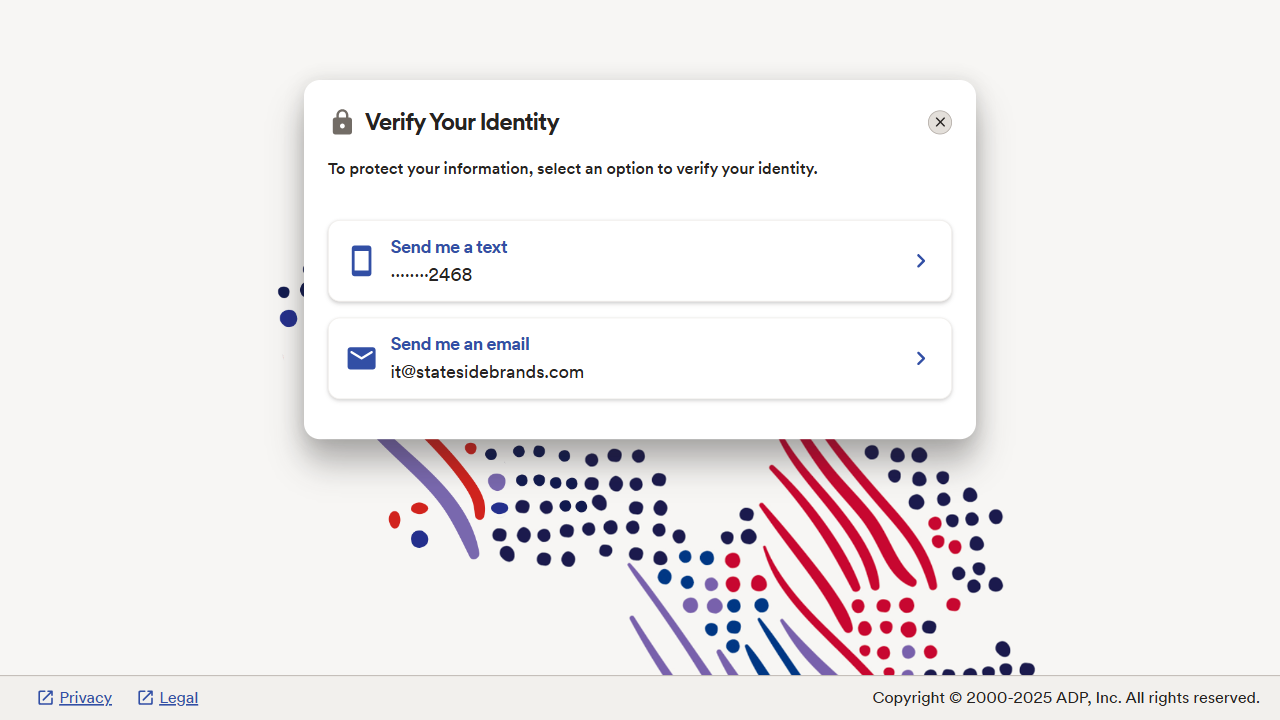
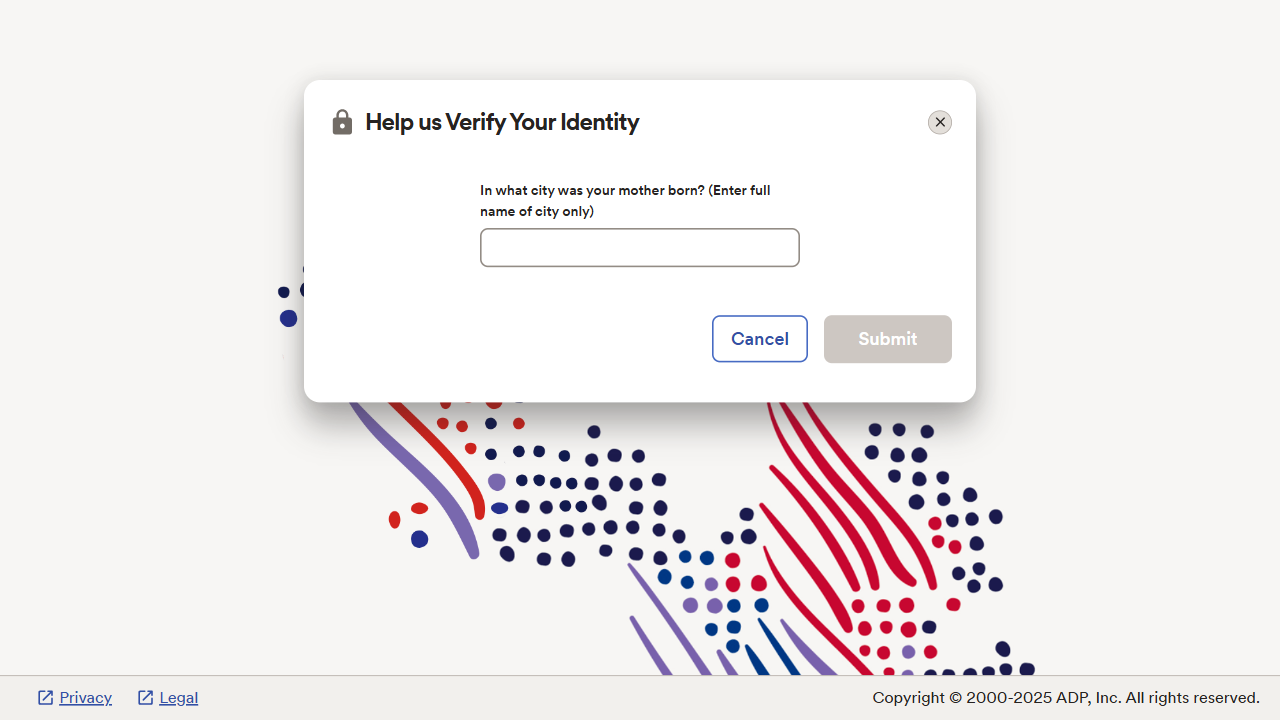
try 3

diff --git a/browser.py b/browser.py
@@ -12,6 +12,114 @@ from config import CONFIG, LOGGER
 from models import BrowserState, LoginStatus, CandidateModel
 
 class BrowserManager:
+    async def navigate_to_recruitment_page(self):
+        """
+        Navigates directly to the ADP Recruitment page after login.
+        """
+        recruitment_url = "https://workforcenow.adp.com/theme/index.html#/Process/ProcessTabTalentCategoryRecruitment"
+        LOGGER.info(f"Navigating to recruitment page: {recruitment_url}")
+        await self.page.goto(recruitment_url)
+        await self.page.wait_for_load_state('networkidle')
+        # Removed unnecessary sleep
+        return True
+
+    async def select_candidates_tab(self):
+        """
+        Ensures the Candidates tab is selected (not Requisitions).
+        """
+        try:
+            LOGGER.info("Selecting Candidates tab if not already selected")
+            tab_selectors = [
+                'button:has-text("Candidates")',
+                'a:has-text("Candidates")',
+                '[role="tab"]:has-text("Candidates")',
+                '[data-automation-id="tab-candidates"]',
+                '.tab:has-text("Candidates")',
+            ]
+            for selector in tab_selectors:
+                try:
+                    tab = await self.page.wait_for_selector(selector, timeout=1000)
+                    if tab:
+                        await tab.click()
+                        await self.page.wait_for_load_state('networkidle')
+                        # Removed unnecessary sleep
+                        LOGGER.info("Candidates tab selected")
+                        return True
+                except Exception:
+                    continue
+            LOGGER.warning("Candidates tab not found or already selected")
+            return False
+        except Exception as e:
+            LOGGER.error(f"Error selecting Candidates tab: {str(e)}")
+            return False
+
+    async def navigate_to_candidates(self) -> tuple[bool, list]:
+        try:
+            # Step 1: Go to recruitment page
+            await self.navigate_to_recruitment_page()
+            # Step 2: Click Candidates tab
+            await self.select_candidates_tab()
+            # Step 3: Confirm we are on the candidates page
+            if await self.is_candidates_page():
+                LOGGER.info("Navigation to candidates page successful")
+                return True, []
+            else:
+                LOGGER.error("Not on candidates page after navigation")
+                return False, []
+        except Exception as e:
+            LOGGER.error(f"Navigation error: {str(e)}")
+            return False, []
+
+    async def extract_candidates_from_page(self) -> List[CandidateModel]:
+        try:
+            LOGGER.info("Extracting candidates from current page with Req# and Job Title")
+            candidates = []
+            rows = await self.page.query_selector_all('tr')
+            for row in rows:
+                try:
+                    name_el = await row.query_selector('a')
+                    name = (await name_el.inner_text()).strip() if name_el else None
+                    cells = await row.query_selector_all('td')
+                    req_job = None
+                    if len(cells) > 1:
+                        req_job = (await cells[1].inner_text()).strip()
+                    url = await name_el.get_attribute('href') if name_el else None
+                    if name and req_job and url:
+                        candidates.append(CandidateModel(
+                            id=f"{req_job}_{name}",
+                            name=name,
+                            url=url,
+                            req_job_title=req_job
+                        ))
+                except Exception:
+                    continue
+            LOGGER.info(f"Found {len(candidates)} candidates on page")
+            return candidates
+        except Exception as e:
+            LOGGER.error(f"Candidate extraction error: {str(e)}")
+            return []
+
+    async def click_clip_icon_and_prepare_resume(self, row):
+        """
+        Clicks the clip icon for a candidate row to open the resume window.
+        """
+        try:
+            clip_icon = await row.query_selector('svg[aria-label*="clip"]')
+            if clip_icon:
+                await clip_icon.click()
+                # Reduced sleep for faster UI
+                await asyncio.sleep(0.5)
+                LOGGER.info("Clip icon clicked, resume window should be open")
+                return True
+            else:
+                LOGGER.warning("Clip icon not found for candidate row")
+                return False
+        except Exception as e:
+            LOGGER.error(f"Error clicking clip icon: {str(e)}")
+            return False
+    async def _debug_form_state(self):
+        # No-op debug method to prevent AttributeError
+        pass
     def __init__(self):
         self.playwright = None
         self.browser: Optional[Browser] = None
@@ -532,6 +640,53 @@ class BrowserManager:
             # Wait for login to complete
             await asyncio.sleep(5)
             await self.page.wait_for_load_state("networkidle")
+
+            # Handle optional MFA step: send verification email, enter code, and verify
+            try:
+                LOGGER.info("Checking for MFA prompt ('Send me an email')")
+                await self.page.wait_for_selector('text="Send me an email"', timeout=10000)
+                await self.page.screenshot(path="mfa_prompt.png")
+                LOGGER.info("MFA detected: clicking 'Send me an email'")
+                await self.page.click('text="Send me an email"')
+                # Wait for code input field to appear
+                code_field = await self.page.wait_for_selector('input[type="text"]', timeout=60000)
+                await self.page.screenshot(path="mfa_input.png")
+                # Prompt user for the MFA code
+                code = await asyncio.to_thread(input, "Enter the MFA code sent to your email: ")
+                await code_field.fill(code)
+                await self.page.screenshot(path="mfa_code_filled.png")
+                # Click verify/continue button if present
+                locator = self.page.locator('text="Verify"')
+                if await locator.is_visible():
+                    await locator.click()
+                await self.page.wait_for_load_state("networkidle", timeout=15000)
+                LOGGER.info("MFA verification complete")
+            except Exception as e:
+                LOGGER.info(f"No MFA step encountered or error: {e}")
+            
+            # Handle optional MFA step: click "Send me an email", prompt user for code, and verify
+            try:
+                LOGGER.info("Checking for MFA prompt (Send me an email)")
+                mfa_button = await self.page.wait_for_selector('button:has-text("Send me an email")', timeout=5000)
+                if mfa_button:
+                    LOGGER.info("MFA detected: sending verification code via email")
+                    await mfa_button.click()
+                    # Prompt user for verification code
+                    code = await asyncio.to_thread(input, "Enter the MFA verification code sent to your email: ")
+                    # Fill in verification code
+                    code_field = await self.page.wait_for_selector('input[type="text"]', timeout=60000)
+                    await code_field.fill(code)
+                    # Click verify button
+                    verify_button = await self.page.wait_for_selector('button:has-text("Verify")', timeout=10000)
+                    if verify_button:
+                        await verify_button.click()
+                    # Wait for post-MFA navigation
+                    await self.page.wait_for_load_state("networkidle", timeout=15000)
+                    LOGGER.info("MFA verification complete")
+                else:
+                    LOGGER.info("No MFA button found, proceeding")
+            except Exception as e:
+                LOGGER.info(f"No MFA step encountered or MFA timeout: {e}")
             
             # Verify login success
             if await self._is_logged_in():

diff --git a/downloader.py b/downloader.py
@@ -38,38 +38,44 @@ class ResumeDownloader:
         if not candidates:
             return []
 
-        LOGGER.info(f"Starting download process for {len(candidates)} candidates")
-        
-        download_dir = Path(config['download']['folder'])
-        download_dir.mkdir(parents=True, exist_ok=True)
-        
+        # Limit to 10 resumes per session
+        candidates = candidates[:10]
+        LOGGER.info(f"Starting download process for {len(candidates)} candidates (max 10 per session)")
+
         timeout = aiohttp.ClientTimeout(total=config['download']['timeout_seconds'])
-        
+
         async with aiohttp.ClientSession(timeout=timeout) as session:
             self.session = session
-            
+
             semaphore = asyncio.Semaphore(config['download']['max_concurrent'])
-            
             tasks = []
             for candidate in candidates:
+                req_job = candidate.req_job_title or "Unknown_Req_Job"
+                folder = Path(config['download']['folder']) / req_job
+                folder.mkdir(parents=True, exist_ok=True)
+                safe_name = self._generate_safe_filename(candidate.name)
+                file_path = folder / f"{safe_name}.pdf"
+                if file_path.exists():
+                    LOGGER.info(f"Resume for {candidate.name} already exists in {req_job}, skipping download.")
+                    candidate.mark_processed(DownloadStatus.SUCCESS, file_path)
+                    continue
                 task = self._download_candidate_resume(
-                    candidate, browser, download_dir, config, semaphore
+                    candidate, browser, folder, config, semaphore
                 )
                 tasks.append(task)
-            
+
             results = await asyncio.gather(*tasks, return_exceptions=True)
-            
-            # Filter out exceptions and convert to DownloadAttempt objects
+
             valid_results = []
             for result in results:
                 if isinstance(result, DownloadAttempt):
                     valid_results.append(result)
                 elif isinstance(result, Exception):
                     LOGGER.error(f"Download task failed: {str(result)}")
-        
+
         successful = sum(1 for r in valid_results if r.status == DownloadStatus.SUCCESS)
         LOGGER.info(f"Download completed: {successful}/{len(valid_results)} successful")
-        
+
         return valid_results
 
     async def _download_candidate_resume(
@@ -85,20 +91,34 @@ class ResumeDownloader:
                 # Navigate to candidate profile
                 await browser.page.goto(candidate.url)
                 await browser.page.wait_for_load_state('networkidle')
-                
+                await asyncio.sleep(1)
+
+                # Click the clip icon to open the resume window (if available)
+                rows = await browser.page.query_selector_all('tr')
+                for row in rows:
+                    name_el = await row.query_selector('a')
+                    name = (await name_el.inner_text()).strip() if name_el else None
+                    if name == candidate.name:
+                        # Try to click the clip icon
+                        clip_icon = await row.query_selector('svg[aria-label*="clip"]')
+                        if clip_icon:
+                            await clip_icon.click()
+                            await asyncio.sleep(2)
+                        break
+
                 # Find resume download link
                 download_url = await self._find_resume_download_url(browser, candidate)
-                
+
                 if not download_url:
                     return DownloadAttempt(
                         candidate.id, candidate.name, 
                         DownloadStatus.NOT_FOUND, 
                         error_message="Resume download URL not found"
                     )
-                
+
                 # Download the file
                 file_path = await self._download_file(download_url, candidate, download_dir)
-                
+
                 if await self._validate_pdf_file(file_path):
                     candidate.mark_processed(DownloadStatus.SUCCESS, file_path)
                     LOGGER.info(f"✓ Downloaded resume for {candidate.name}")
@@ -109,7 +129,7 @@ class ResumeDownloader:
                         DownloadStatus.FAILED, 
                         error_message="File validation failed"
                     )
-                    
+
             except Exception as e:
                 error_message = str(e)
                 candidate.mark_processed(DownloadStatus.FAILED, error=error_message)

diff --git a/models.py b/models.py
@@ -34,9 +34,11 @@ class DownloadStatus(Enum):
     TIMEOUT = "timeout"
 
 class CandidateModel(BaseModel):
+
     id: str
     name: str
     url: str
+    req_job_title: Optional[str] = None  # New: Req# - Job Title for folder naming
     processed: bool = False
     download_status: Optional[DownloadStatus] = None
     download_path: Optional[Path] = None
